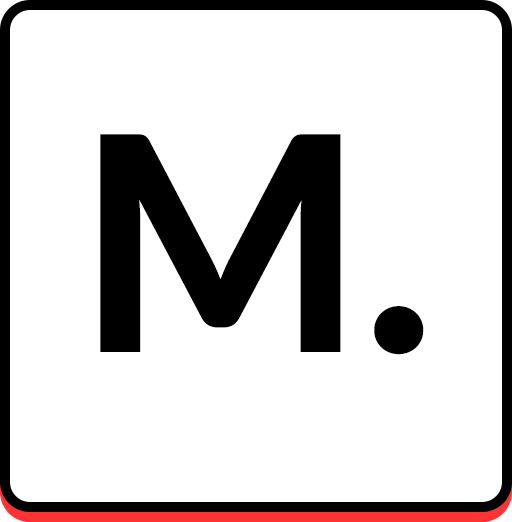
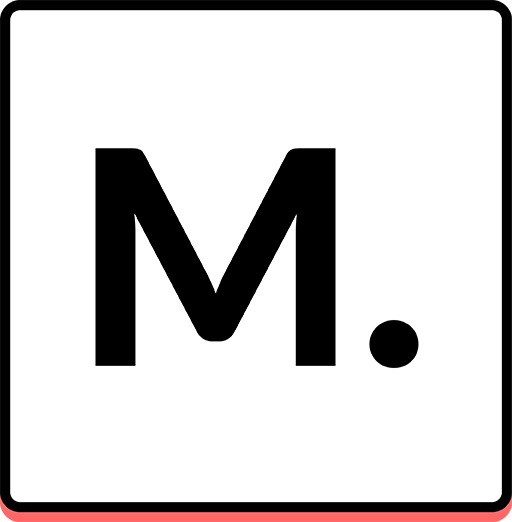
Update to v1.0.3
- Minimize to system tray by default
- Add context menu to show window or quit app in system tray menu
- Make icons pixel perfect
- Add system tray icon

diff --git a/src/main.js b/src/main.js
@@ -1,12 +1,15 @@
 // Modules to control application life and create native browser window
-const { app, BrowserWindow } = require('electron');
+const { app, BrowserWindow, Tray, Menu } = require('electron');
 const path = require('path');
+
+const SYSTRAY_ICON = path.join(__dirname, '/assets/system-tray-icon.png');
 
 // Keep a global reference of the window object, if you don't, the window will
 // be closed automatically when the JavaScript object is garbage collected.
 let win;
+let tray = null;
 
-function createWindow() {
+function createWindow(show = true) {
   // Create the browser window.
   win = new BrowserWindow({
     width: 400,
@@ -17,6 +20,7 @@ function createWindow() {
       contextIsolation: false,
       nodeIntegration: true,
     },
+    show,
   });
 
   // remove menu bar
@@ -36,14 +40,74 @@ function createWindow() {
     // when you should delete the corresponding element.
     win = null;
   });
+
+  win.on('minimize', function(event) {
+    event.preventDefault();
+    win.hide();
+  });
+
+  win.on('close', function(event) {
+    if (!app.isQuiting) {
+      event.preventDefault();
+      win.hide();
+    }
+
+    return false;
+  });
+
+  return win;
 }
+
+app.requestSingleInstanceLock();
+app.on('second-instance', (event, argv, cwd) => {
+  // Someone tried to run a second instance, we should focus our window.
+  if (win) {
+    win.show();
+  }
+});
 
 app.commandLine.appendSwitch('autoplay-policy', 'no-user-gesture-required');
 
 // This method will be called when Electron has finished
 // initialization and is ready to create browser windows.
 // Some APIs can only be used after this event occurs.
-app.on('ready', createWindow);
+// Don't show the window and create a tray instead
+app.on('ready', () => {
+  // create and get window instance
+  win = createWindow(false);
+
+  // start tray icon
+  tray = new Tray(SYSTRAY_ICON);
+
+  // tray icon tooltip
+  tray.setToolTip('Mechvibes.');
+
+  // context menu when hover on tray icon
+  const contextMenu = Menu.buildFromTemplate([
+    {
+      label: 'Mechvibes.',
+      click: function() {
+        // show app on click
+        win.show();
+      },
+    },
+    {
+      label: 'Quit',
+      click: function() {
+        // quit
+        app.isQuiting = true;
+        app.quit();
+      },
+    },
+  ]);
+
+  // double click on tray icon, show the app
+  tray.on('double-click', () => {
+    win.show();
+  });
+
+  tray.setContextMenu(contextMenu);
+});
 
 // Quit when all windows are closed.
 app.on('window-all-closed', function() {

diff --git a/src/assets/style.css b/src/assets/style.css
@@ -20,7 +20,7 @@ body {
 }
 #keycode-display {
   transition: all 0.1s ease;
-  box-shadow: 0 2px #ff3333;
+  box-shadow: 0 2px #ff6666;
   font-weight: 900;
 }
 #keycode-display.pressed {
